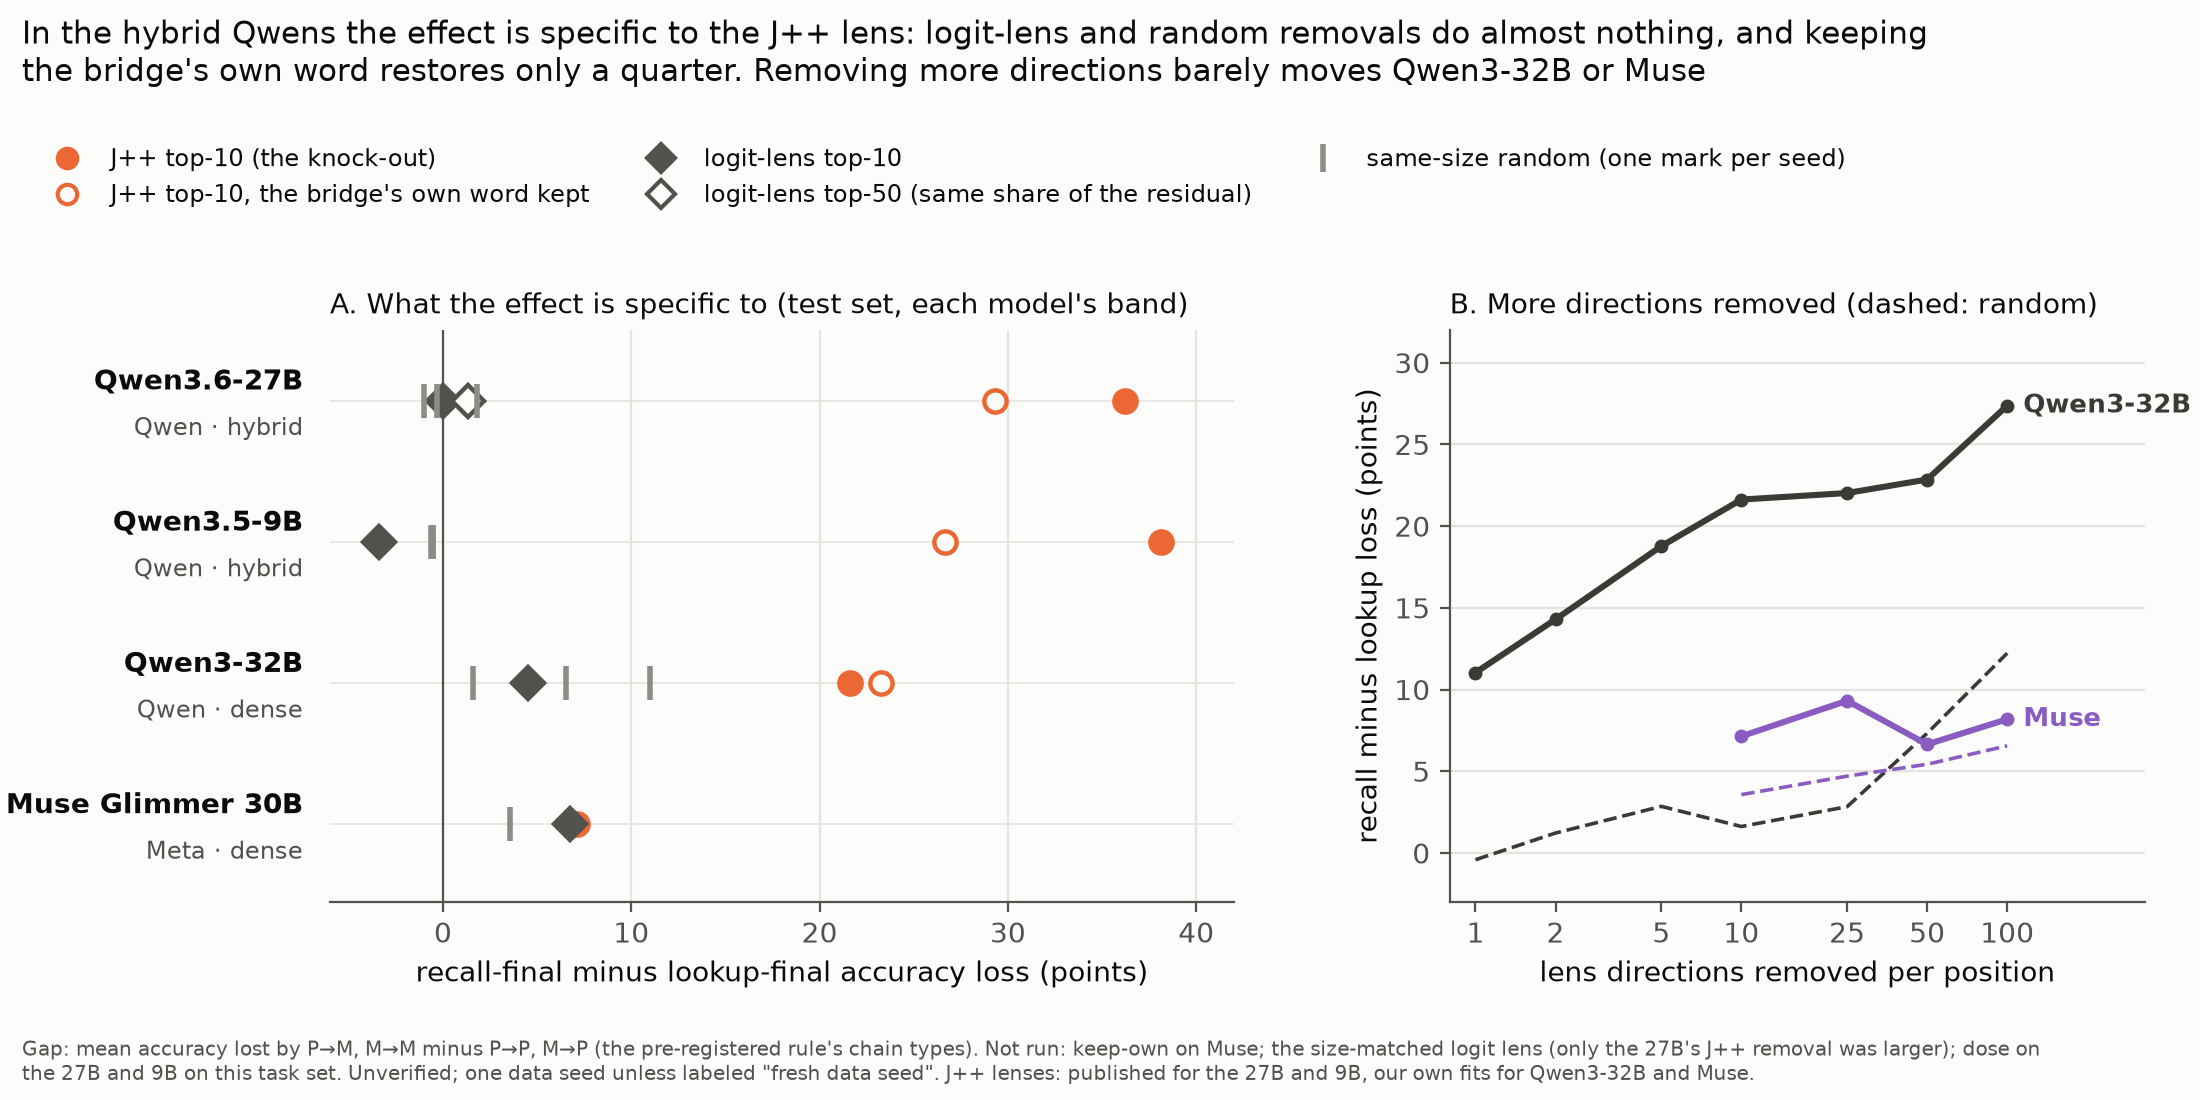
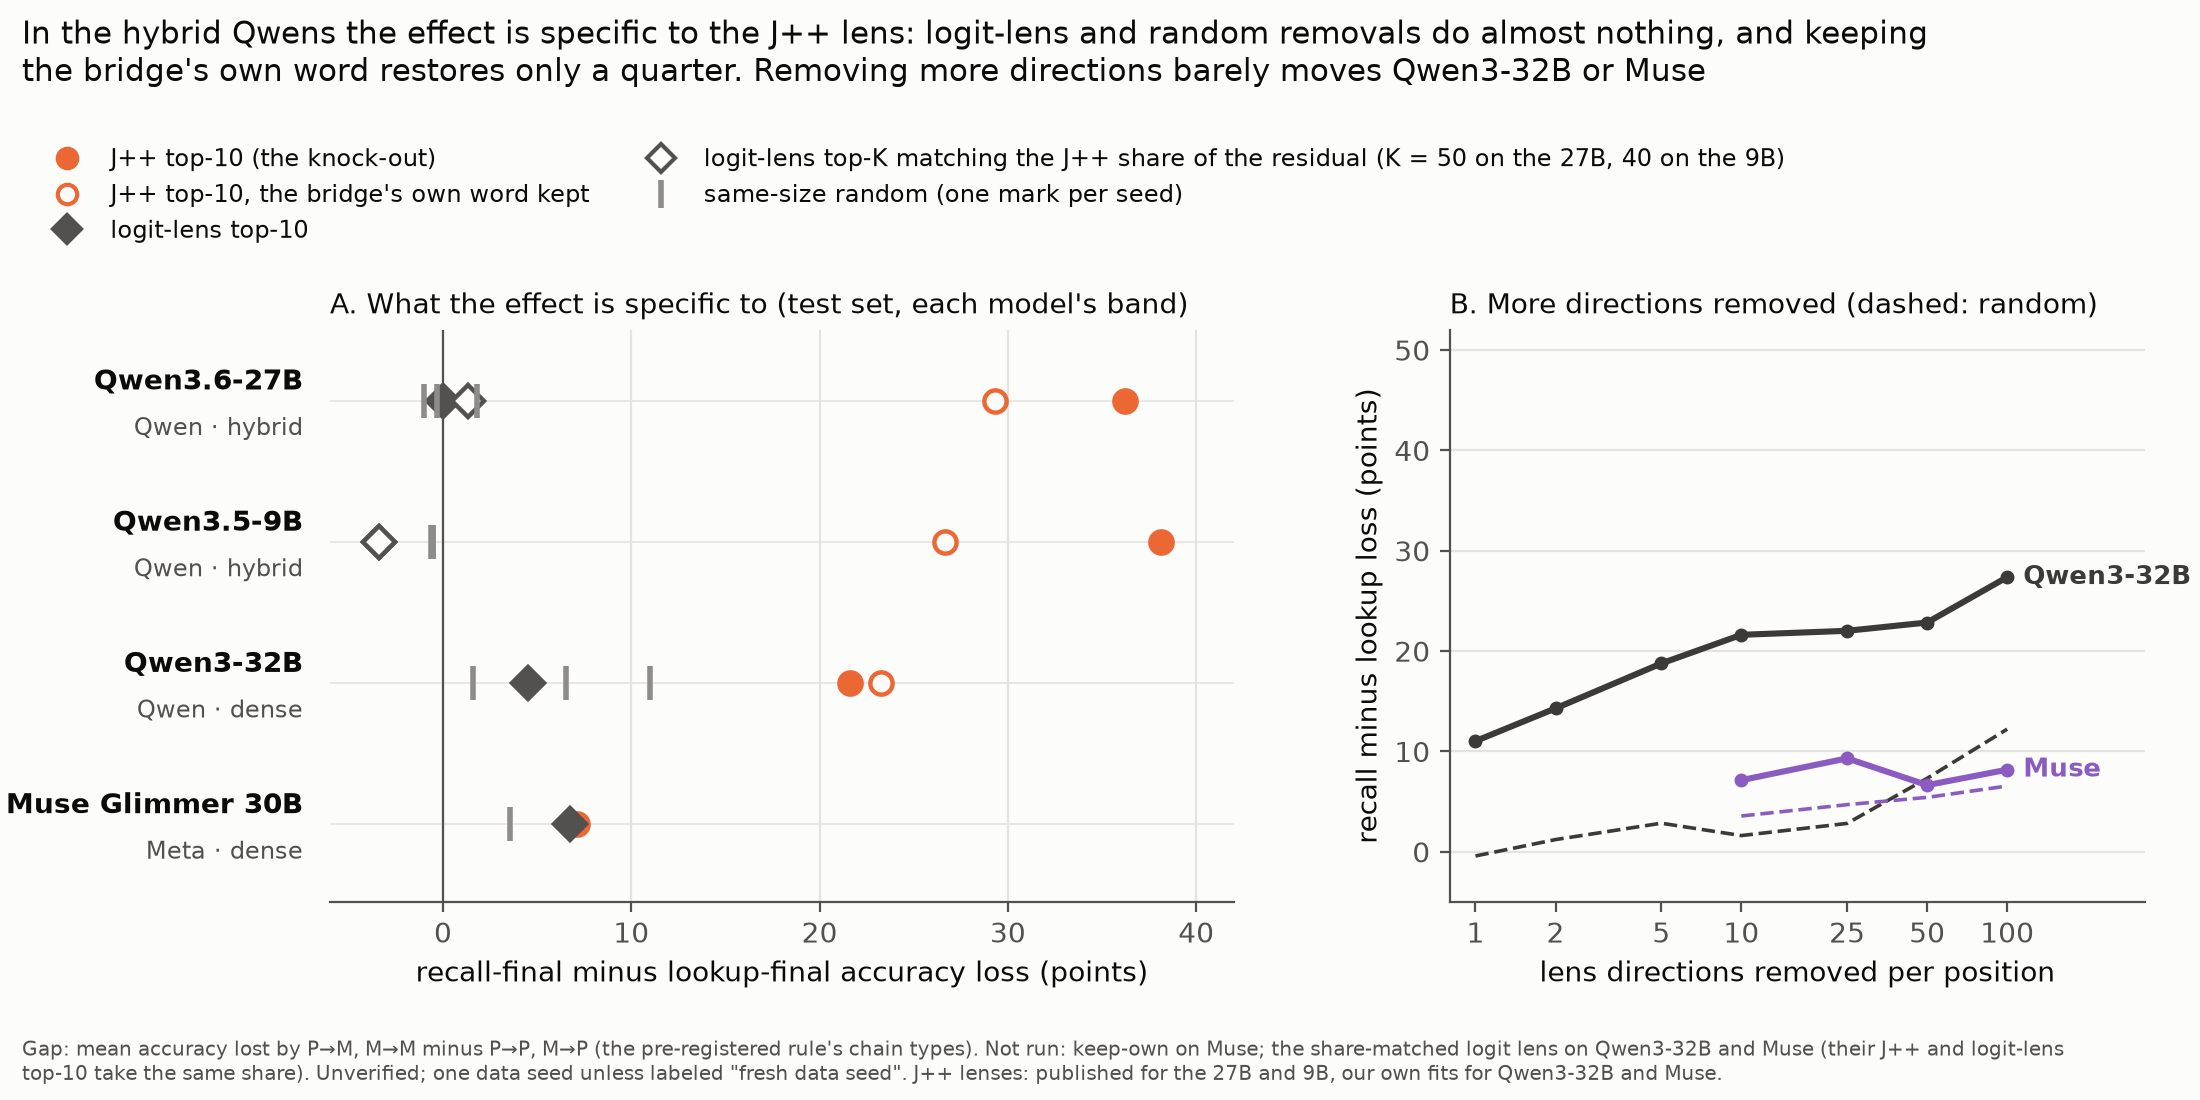
story figures: the 9B share-matched logit-lens control (unembed40, gap -3); dose panel takes the 27B and 9B when their runs finish

diff --git a/scripts/cross_model_story_1022.py b/scripts/cross_model_story_1022.py
@@ -243,7 +243,7 @@ plt.close(fig)
 CONDS = [("J++ top-10 (the knock-out)", "full2_ko_v1", "paper10", "o", MEMORY, True),
          ("J++ top-10, the bridge's own word kept", "full2_ko_keepown_v1", "paper10_keepown", "o", MEMORY, False),
          ("logit-lens top-10", "full2_ko_unembed_v1", "unembed10", "D", INK2, True),
-         ("logit-lens top-50 (same share of the residual)", "full2_ko_unembed_sized_v1", "unembed50", "D", INK2, False),
+         ("logit-lens top-K matching the J++ share of the residual (K = 50 on the 27B, 40 on the 9B)", "full2_ko_unembed_sized_v1", "unembedK", "D", INK2, False),
          ("same-size random (one mark per seed)", None, "paper10_rot", "|", INK3, True)]  # fmt: skip
 fig = plt.figure(figsize=(11, 5.5))
 gs = fig.add_gridspec(1, 2, width_ratios=[1.3, 1], left=0.15, right=0.975, top=0.7, bottom=0.18, wspace=0.27)
@@ -258,7 +258,8 @@ for y, m in zip(ys, MODELS, strict=True):
     for label, run, cond, mk, col, filled in CONDS:
         runs = [f"{m['p']}{r}" for r in ("full2_ko_v1", "full2_ko_rotseed1_v1", "full2_ko_rotseed2_v1")] if run is None else [f"{m['p']}{run}"]
         for r in runs:
-            L = losses(r, m["band"]).get(cond)
+            LL = losses(r, m["band"])
+            L = LL.get(cond) if cond != "unembedK" else next((v for c, v in LL.items() if c.startswith("unembed") and not c.endswith("_rot")), None)
             if L and len(L) == 6:
                 ax.plot(gap(L), y, mk, color=col, markersize=12 if mk == "|" else 8, markeredgewidth=2 if mk == "|" else 1.6,
                         markerfacecolor=col if filled else SURFACE, zorder=3)  # fmt: skip
@@ -268,13 +269,17 @@ ax.set_xlabel("recall-final minus lookup-final accuracy loss (points)")
 ax.set_title("A. What the effect is specific to (test set, each model's band)", loc="left", fontsize=10)
 fig.legend([Line2D([], [], color=c, marker=mk, linestyle="", markersize=10 if mk == "|" else 7, markeredgewidth=2 if mk == "|" else 1.5,
                    markerfacecolor=c if f else SURFACE) for _, _, _, mk, c, f in CONDS], [c[0] for c in CONDS],
-           loc="upper left", bbox_to_anchor=(0.01, 0.885), ncol=3, frameon=False, fontsize=8.6)  # fmt: skip
+           loc="upper left", bbox_to_anchor=(0.01, 0.885), ncol=2, frameon=False, fontsize=8.6)  # fmt: skip
 ax2 = fig.add_subplot(gs[0, 1])
 style(ax2, "y")
 KS = [1, 2, 5, 10, 25, 50, 100]
-DOSE = [("Qwen3-32B", [("qwen3_32b_full_dose_v1", "L44-52")], "#3b3a37"),
+DOSE = [("Qwen3.6-27B", [("full2_ko_v1", "L32-40"), ("full2_dose_v1", "L32-40")], "#0f766e"),
+        ("Qwen3.5-9B", [("qwen35_9b_full2_ko_v1", "L12-16"), ("qwen35_9b_full2_dose_v1", "L12-16")], "#b45309"),
+        ("Qwen3-32B", [("qwen3_32b_full_dose_v1", "L44-52")], "#3b3a37"),
         ("Muse", [("muse30_full2_ko_v1", "L36-42"), ("muse30_full2_dose_v1", "L36-42")], "#8a5cc2")]  # fmt: skip
 for name, srcs, col in DOSE:
+    if not all((AB / run / "summary.json").exists() for run, _ in srcs):
+        continue  # a dose run still in progress is never drawn
     for rot in (False, True):
         pts = {}
         for run, b in srcs:
@@ -292,7 +297,7 @@ ax2.set_xscale("log")
 ax2.set_xticks(KS, [str(k) for k in KS])
 ax2.minorticks_off()
 ax2.set_xlim(0.8, 330)
-ax2.set_ylim(-3, 32)
+ax2.set_ylim(-5, 52)
 ax2.set_xlabel("lens directions removed per position")
 ax2.set_ylabel("recall minus lookup loss (points)")
 ax2.set_title("B. More directions removed (dashed: random)", loc="left", fontsize=10)
@@ -300,7 +305,7 @@ fig.suptitle("In the hybrid Qwens the effect is specific to the J++ lens: logit-
              "the bridge's own word restores only a quarter. Removing more directions barely moves Qwen3-32B or Muse",
              x=0.01, y=0.985, ha="left", fontsize=11)  # fmt: skip
 foot(fig, "Gap: mean accuracy lost by P→M, M→M minus P→P, M→P (the pre-registered rule's chain types). Not run: keep-own on Muse; the "
-     "size-matched logit lens (only the 27B's J++ removal was larger); dose on the 27B and 9B on this task set. " + FOOT, 7.3)  # fmt: skip
+     "share-matched logit lens on Qwen3-32B and Muse (their J++ and logit-lens top-10 take the same share). " + FOOT, 7.3)  # fmt: skip
 fig.savefig(OUT / "story_fig3_specificity_1022.png", dpi=200)
 plt.close(fig)
 
